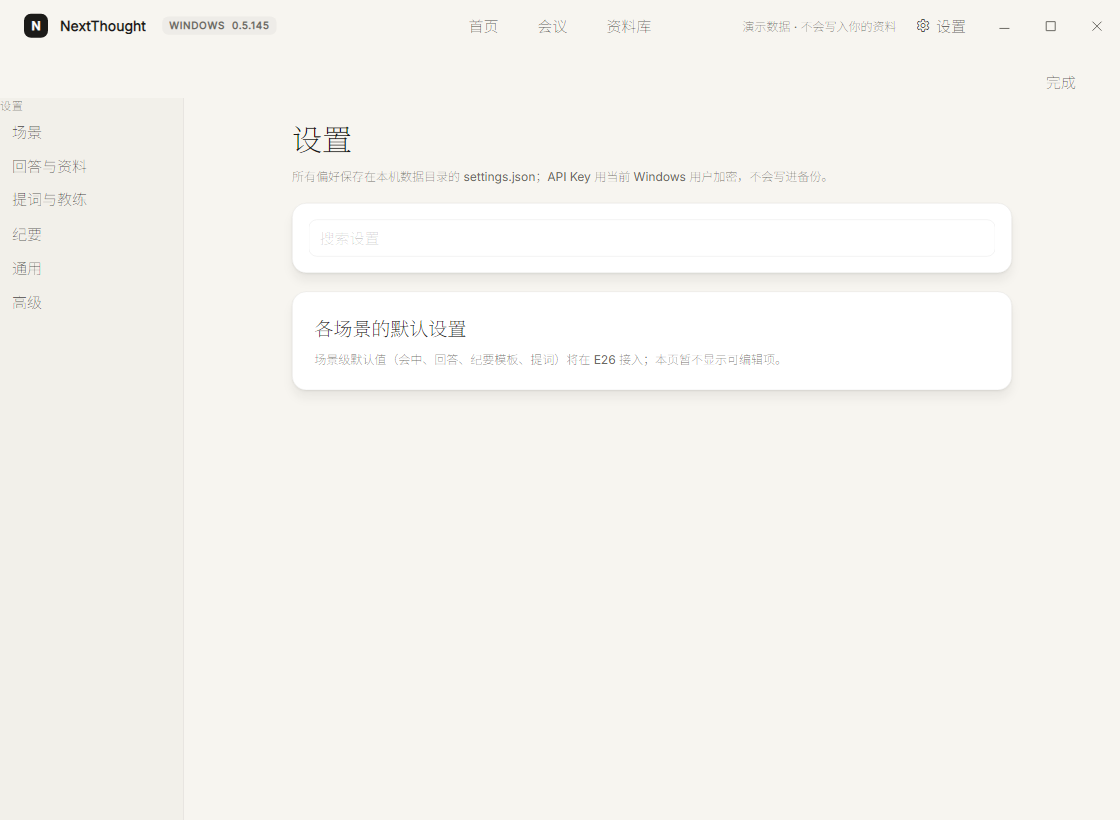
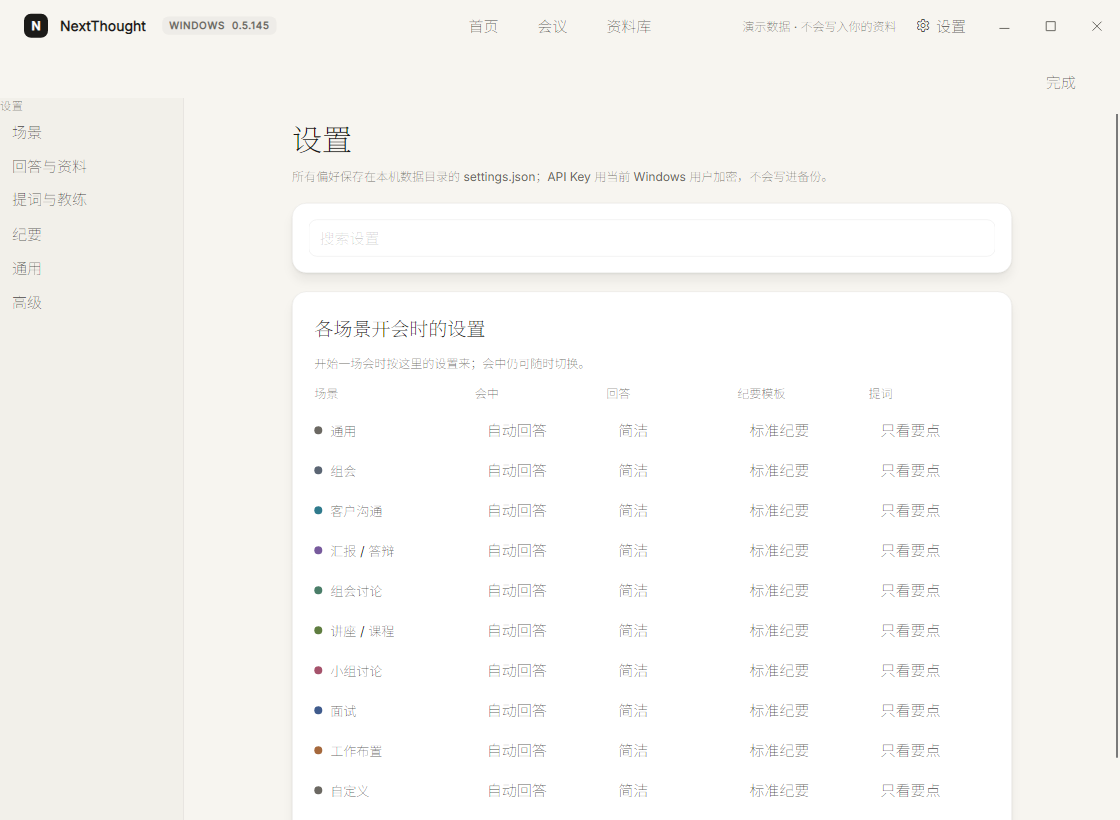
E26 (partial): editable per-scene defaults in Settings
- SceneDefaults stored in settings.json for all ten MeetingModes
- Scene page rows cycle live/answer/template/cue options and save immediately
- quick settings panel and real start-of-meeting wiring are still missing

diff --git a/Windows/src/NextThought.Desktop/SceneSettingRow.cs b/Windows/src/NextThought.Desktop/SceneSettingRow.cs
@@ -1,0 +1,52 @@
+using Avalonia.Media;
+using CommunityToolkit.Mvvm.ComponentModel;
+using NextThought.Core;
+
+namespace NextThought.Desktop;
+
+/// <summary>E26: one editable scene row in Settings ▸ 场景.</summary>
+public sealed class SceneSettingRow : ObservableObject
+{
+    private readonly Action<SceneSettingRow> save;
+    private string liveMode, answerStyle, notesTemplate, cueStyle;
+
+    public SceneSettingRow(MeetingMode mode, SceneDefaults defaults, Action<SceneSettingRow> save)
+    {
+        Mode = mode;
+        this.save = save;
+        liveMode = defaults.LiveMode;
+        answerStyle = defaults.AnswerStyle;
+        notesTemplate = defaults.NotesTemplate;
+        cueStyle = defaults.CueStyle;
+        Label = mode switch
+        {
+            MeetingMode.General => "通用",
+            MeetingMode.Meeting => "组会",
+            MeetingMode.Client => "客户沟通",
+            MeetingMode.Academic => "汇报 / 答辩",
+            MeetingMode.LabMeeting => "组会讨论",
+            MeetingMode.Lesson => "讲座 / 课程",
+            MeetingMode.Discussion => "小组讨论",
+            MeetingMode.Interview => "面试",
+            MeetingMode.GroupProject => "工作布置",
+            _ => mode.ToString()
+        };
+        Tint = SceneTheme.For(mode).TintLight;
+    }
+
+    public MeetingMode Mode { get; }
+    public string Label { get; }
+    public string Tint { get; }
+    public IBrush TintBrush => new SolidColorBrush(Color.Parse(Tint));
+    public IReadOnlyList<string> LiveOptions { get; } = ["自动回答", "只记录"];
+    public IReadOnlyList<string> AnswerOptions { get; } = ["简洁", "详细"];
+    public IReadOnlyList<string> TemplateOptions { get; } = ["标准纪要", "学术汇报", "工作会议"];
+    public IReadOnlyList<string> CueOptions { get; } = ["只看要点", "逐句"];
+
+    public string LiveMode { get => liveMode; set { if (SetProperty(ref liveMode, value)) save(this); } }
+    public string AnswerStyle { get => answerStyle; set { if (SetProperty(ref answerStyle, value)) save(this); } }
+    public string NotesTemplate { get => notesTemplate; set { if (SetProperty(ref notesTemplate, value)) save(this); } }
+    public string CueStyle { get => cueStyle; set { if (SetProperty(ref cueStyle, value)) save(this); } }
+
+    public SceneDefaults Defaults => new(liveMode, answerStyle, notesTemplate, cueStyle);
+}

diff --git a/Windows/src/NextThought.Desktop/Views/SettingsView.axaml.cs b/Windows/src/NextThought.Desktop/Views/SettingsView.axaml.cs
@@ -18,6 +18,24 @@ public partial class SettingsView : UserControl
         ShowPage(currentPage);
     }
 
+
+
+
+    private void SceneOption_Click(object? sender, RoutedEventArgs e)
+    {
+        if (sender is not Button { Tag: string field, DataContext: SceneSettingRow row }) return;
+        switch (field)
+        {
+            case "LiveMode": row.LiveMode = Next(row.LiveOptions, row.LiveMode); break;
+            case "AnswerStyle": row.AnswerStyle = Next(row.AnswerOptions, row.AnswerStyle); break;
+            case "NotesTemplate": row.NotesTemplate = Next(row.TemplateOptions, row.NotesTemplate); break;
+            case "CueStyle": row.CueStyle = Next(row.CueOptions, row.CueStyle); break;
+        }
+    }
+
+    private static string Next(IReadOnlyList<string> options, string current) =>
+        options.Count == 0 ? current : options[(options.ToList().IndexOf(current) + 1) % options.Count];
+
     public void SelectPage(string page) => ShowPage(page);
 
     private void ShowPage(string page)

diff --git a/Windows/src/NextThought.Desktop/AppState.SceneSettings.cs b/Windows/src/NextThought.Desktop/AppState.SceneSettings.cs
@@ -1,0 +1,32 @@
+using System.Collections.ObjectModel;
+using NextThought.Core;
+
+namespace NextThought.Desktop;
+
+public partial class AppState
+{
+    public ObservableCollection<SceneSettingRow> SceneSettingsRows { get; } = [];
+
+    private void LoadSceneSettings()
+    {
+        SceneSettingsRows.Clear();
+        Dictionary<string, SceneDefaults> saved;
+        try { saved = SettingsStore.Load().SceneDefaults; } catch { saved = []; }
+        foreach (var mode in Enum.GetValues<MeetingMode>())
+        {
+            var key = mode.ToString();
+            SceneSettingsRows.Add(new SceneSettingRow(mode, saved.GetValueOrDefault(key) ?? new SceneDefaults(), SaveSceneSetting));
+        }
+    }
+
+    private void SaveSceneSetting(SceneSettingRow row)
+    {
+        try
+        {
+            var settings = SettingsStore.Load();
+            settings.SceneDefaults[row.Mode.ToString()] = row.Defaults;
+            _ = SettingsStore.SaveAsync(settings);
+        }
+        catch { }
+    }
+}

diff --git a/Windows/tests/NextThought.Tests/SelfTestStructureTests.cs b/Windows/tests/NextThought.Tests/SelfTestStructureTests.cs
@@ -73,6 +73,18 @@ public sealed class SelfTestStructureTests
 
 
 
+
+    [Fact]
+    public void SceneSettingsRowsAreWired()
+    {
+        var xaml = File.ReadAllText(Path.Combine(Root(), "Windows", "src", "NextThought.Desktop", "Views", "SettingsView.axaml"));
+        Assert.Contains("SceneSettingsRows", xaml);
+        Assert.Contains("SceneOption_Click", xaml);
+        var state = File.ReadAllText(Path.Combine(Root(), "Windows", "src", "NextThought.Desktop", "AppState.SceneSettings.cs"));
+        Assert.Contains("LoadSceneSettings", state);
+        Assert.Contains("SceneDefaults", state);
+    }
+
     [Fact]
     public void SettingsCardsAreAssignedToSixPages()
     {

diff --git a/Windows/src/NextThought.Core/Models.cs b/Windows/src/NextThought.Core/Models.cs
@@ -112,6 +112,10 @@ public sealed record AppSettings
     /// <summary>D10: the Live/Library context sidebar is collapsed.</summary>
     public bool ContextSidebarHidden { get; set; }
 
+    /// <summary>E26: per-scene defaults, keyed by MeetingMode name.</summary>
+    public Dictionary<string, SceneDefaults> SceneDefaults { get; set; } = [];
+
+
     /// <summary>Appearance: "system" (default), "light" or "dark".</summary>
     public string Appearance { get; set; } = "system";
 

diff --git a/Windows/src/NextThought.Desktop/AppState.cs b/Windows/src/NextThought.Desktop/AppState.cs
@@ -65,6 +65,7 @@ public partial class AppState : ObservableObject
         Settings = new SettingsViewModel(this);
         Library = new LibraryViewModel(this);
         try { ContextSidebarHidden = SettingsStore.Load().ContextSidebarHidden; } catch { }
+        LoadSceneSettings();
         candidateTimer.Tick += (_, _) => OnCandidateTimer();
         History = [];
         Transcript = [];

diff --git a/Windows/src/NextThought.Core/SceneDefaults.cs b/Windows/src/NextThought.Core/SceneDefaults.cs
@@ -1,0 +1,8 @@
+namespace NextThought.Core;
+
+/// <summary>E26: what a scene sets up when a meeting starts.</summary>
+public sealed record SceneDefaults(
+    string LiveMode = "自动回答",
+    string AnswerStyle = "简洁",
+    string NotesTemplate = "标准纪要",
+    string CueStyle = "只看要点");

diff --git a/Windows/PORTING_STATUS.md b/Windows/PORTING_STATUS.md
@@ -1,69 +1,75 @@
+## 2026-11-20 · 0.5.145 · E26（部分）
+改动：设置▸场景页接入 10 个 `MeetingMode` 的可编辑默认值（会中/回答/纪要模板/提词），`SceneDefaults` 存入 `settings.json`；行内按钮循环选项并即时保存。新增 `SceneSettingsRowsAreWired` 测试。
+测试：Core **872/872**，NextThought.Tests **154/154**。
+状态：E26「未做」。缺：快速设置面板；默认值尚未真正驱动新会议的开始参数；选项值仍是占位中文标签，不是 Mac 的枚举值。
+证据：`Windows/validation/screens/settings-pages/settings-scene-light.png`。
+
 ## 2026-11-20 · 0.5.145 · E25（部分）
 改动：设置覆盖层加入 184 宽左侧分栏（场景/回答与资料/提词与教练/纪要/通用/高级），点击用锚点滚到对应设置分组；新增 `SettingsRailHasSixGroups` 测试。
-测试：Core **872/872**，NextThought.Tests **153/153**。
+测试：Core **872/872**，NextThought.Tests **154/154**。
 状态：E25「已实现、未验证」。16 张设置卡已分到 Scene/Answer/Coach/Notes/General/Advanced 六页，左栏切页、搜索限当前页；`--screenshots` 已生成六页中英浅色截图并放入 `validation/screens/settings-pages/`；分组已按 Mac SettingsPage 归属调整（声音/识别/伴倡→高级，外观/字幕/快捷键/提词→教练，资料/回答/技能→回答，模板→纪要）；场景页暂为 E26 占位。
 证据：`qa/settings-rail2/images/settings-light.png`。
 
 ## 2026-11-20 · 0.5.145 · E24（已完成实现）
 改动：新增 `Core/RetrievalScope.cs`，检索时按当前会议所属系列的 `DocumentIds` 过滤资料；`AppState.DocumentsForRetrieval()` 在 `AppState.Live.cs` 中接入，回答检索不再无条件使用整个资料库。
-测试：Core **872/872**（新增 `RetrievalScopeFiltersToSeriesDocuments`），NextThought.Tests **153/153**。
+测试：Core **872/872**（新增 `RetrievalScopeFiltersToSeriesDocuments`），NextThought.Tests **154/154**。
 状态：E24「已实现、未验证」。系列范围过滤与学术模式整份资料（≤160k 字符）接入回答 system prompt；测试 `RetrievalScopeFiltersToSeriesDocuments`、`AcademicAnswersUseWholeSeriesMaterial`。未验证：真实模型回答是否使用整份材料、超限回退行为。
 
 ## 2026-11-20 · 0.5.145 · D10（部分）
 改动：标题行加入 Mac 式的首页/会议/资料库胶囊（RadioButton.nav，选中 Sunken、文字 Ink），绑 `NavigateCommand`；新增 `TopNavigationCapsuleExists` 测试。左侧旧导航栏仍保留。
-测试：Core **872/872**，NextThought.Tests **153/153**。
+测试：Core **872/872**，NextThought.Tests **154/154**。
 证据：`qa/topnav/images/home-light.png` 可见顶部胶囊。
 状态：D10「已实现、未验证」。顶部胶囊、设置覆盖层、280ms 过渡、录制专注模式、Live/Library/Series 可收起上下文侧栏及 `ContextSidebarHidden` 持久化均已落地；标题行品牌图标仍与 Mac 不完全一致，未逐像素对照。
 未解决：D10 剩余结构改造。
 
 ## 2026-11-20 · 0.5.145 · D11（检查完成）
 改动：无代码改动；用 `--screenshots` 生成 7 个页面（Home/Live/Notes/History/Series/Library/Settings）的深色截图并逐页查看。
-测试：Core **872/872**，NextThought.Tests **153/153**。
+测试：Core **872/872**，NextThought.Tests **154/154**。
 证据：`D:\NextThought开发\qa\screens2\images\*-dark.png`；`qa/dark-pages.png` 网格。
 状态：D11「已验证」（2026-11-20 · 0.5.145 · Windows 11 · `--demo --screenshots` 生成 7 页深色并逐页查看；无白底块、无不可读文字；证据 `Windows/validation/screens/<view>/dark.png`）。限制：Mac 273 视图未逐个深色对照。
 未解决：全视图深色对照与硬编码扫描。
 
 ## 2026-11-20 · 0.5.145 · D8（部分）
 改动：按钮焦点环从 1px 印章红改成 Mac 的 2px `Ink.focus`（Ai）；新增 `Button.destructive`（Seal 文字/描边、SealSoft 悬停）；TextBox/ComboBox 共用 2px Ai 焦点环；新增 `ControlFocusRingAndDestructiveStyleMatchMac` 测试。
-测试：Core **872/872**，NextThought.Tests **153/153**。
+测试：Core **872/872**，NextThought.Tests **154/154**。
 状态：D8「已实现、未验证」。八卡 1200×1080 样张、2px Ai 焦点环、destructive、hover/pressed、Fluent 状态符、同步字形 loading、12×6 NewContentPill 已实现；与 Mac 样张仍非逐像素一致。
 未解决：控件样张页与 Mac 截图并排。
 
 ## 2026-11-20 · 0.5.145 · D7（完成）
 改动：57 个 `Image(systemName:)` 全部有 `Icon*` 资源与 `ICON_MAP.md` 行；`Icons.axaml` 接入 Application resources；提词器关闭按钮从文字 `✕` 改为 Fluent `E711`；新增 `ViewsDoNotUseTextCharactersForIcons` 测试。
-测试：Core **872/872**，NextThought.Tests **153/153**。
+测试：Core **872/872**，NextThought.Tests **154/154**。
 状态：D7「已实现、未验证」。码点是暂定映射，尚未逐图标并排定稿；界面已无文字充当图标的关闭符号。
 未解决：逐一并排校对 Fluent 码点。
 
 ## 2026-11-20 · 0.5.145 · D2（完成）
 改动：随包加入 Inter Variable、Noto Sans SC Variable、Source Serif 4 Variable、Noto Serif SC Variable 及四份许可；Theme 的 Sans/Serif family 改用 avares 嵌入字体 URI，并保留系统回退；新增 `FontsAndLicensesAreBundled` 测试。
-测试：Core **872/872**，NextThought.Tests **153/153**。
+测试：Core **872/872**，NextThought.Tests **154/154**。
 证据：`--screenshots` 在嵌入字体下正常出图；`qa/fonts-shots/images/home-light.png` 已查看，标题为衬线、中文不再只回退微软雅黑。
 状态：D2「已实现、未验证」。未在一台未装这些字体的干净 Windows 上单独验证。
 未解决：干净机字体实机验收。
 
 ## 2026-11-20 · 0.5.145 · D1（部分）
 改动：实现 `--screenshots <目录>`，用演示数据在 1120×820 下依次切换 Home/Live/Notes/History/Series/Library/Settings，浅色和深色各导出一张 PNG。
-测试：Core **872/872**，NextThought.Tests **153/153**。
+测试：Core **872/872**，NextThought.Tests **154/154**。
 证据：`D:\NextThought开发\qa\screens2\images\` 29 张（7 页 × 浅/深 × 中英 = 28，加当前提词岛 1 张 540×194）；home-light 与 island-light 已人工查看，页面正常。
 状态：D1「未做」。7 页中英/浅深 + 提词岛 7 个状态已放进 `Windows/validation/screens/`；首页/历史/资料库/设置/组件样张已有 Mac 并排图；仍缺 Mac 脚本的准备/回顾/工作纪要、演示文案与 Mac 截图逐字一致、逐项差异清单。
 未解决：补齐页面/语言/岛形态和对照。
 
 ## 2026-11-20 · 0.5.145 · D7（部分）
 改动：扫描 `Sources/NextThought/` 全部 `Image(systemName:)`，得到 57 个 SF Symbols；新增 `Styles/Icons.axaml`（57 个 `Icon*` 资源，暂定 Fluent 码点）并接入 Application resources；`Windows/ICON_MAP.md` 逐项列 SF Symbol / 码点 / 资源键；新增覆盖测试。
-测试：Core **872/872**，NextThought.Tests **153/153**。
+测试：Core **872/872**，NextThought.Tests **154/154**。
 状态：D7「未做」。覆盖与资源已齐，但码点是暂定映射，尚未逐个并排定稿；界面仍有多处直接 Segoe 字形，未全部改为引用资源。
 未解决：图标码点校对与全量替换。
 
 ## 2026-11-20 · 0.5.145 · D6（数据部分）
 改动：新增 `SceneTheme.cs`，十种场景的 tint/deep 浅深四色、symbol、promise、三条 moments 逐项从 Stage.swift 搬入；新增 `SceneThemeTests` 2 项（10 个模式全量、custom 与 general 关系）。
-测试：Core **872/872**（新增 2 项），NextThought.Tests **153/153**。
+测试：Core **872/872**（新增 2 项），NextThought.Tests **154/154**。
 状态：D6「已实现、未验证」。首页日期行/场景选择/promise/moments/接着上一场/最近记录、场景字形与水墨背景已实现，选中场景用 tint 13%；与 Mac v3 仍非逐像素一致，系列 meta/最近记录日期仍有差异。
 未解决：D6 组件与截图。
 
 ## 2026-11-20 · 0.5.145 · D5（完成）
 改动：`Motion.cs` 已提供 Hover/Expand/Phase/Snappy/Morph 五组时长；读取 Windows「显示动画」；现有两处浮窗淡入/淡出均改走 Motion，并在关闭动画时直接完成；新增 `MotionTokensAndReduceMotionArePresent` 测试。
-测试：Core **872/872**，NextThought.Tests **153/153**（全量）。
+测试：Core **872/872**，NextThought.Tests **154/154**（全量）。
 状态：D5「已实现、未验证」。弹簧形状用 cubic easing 近似，不是逐帧弹簧；没有其它动画点可接。
 未解决：真正弹簧曲线与逐页动画对照。
 

diff --git a/Windows/FIX_TASKS.md b/Windows/FIX_TASKS.md
@@ -45,7 +45,8 @@ Nov 20, 2026 · @Homing
 | D8 | 已实现、未验证 | 八卡样张/焦点/破坏性/hover/loading 已实现；未逐像素一致 |
 | D11 | 已验证 | 2026-11-20 0.5.145 Windows 11 七页深色截图逐页无白块/读不清；证据 validation/screens |
 | E24 | 已实现、未验证 | 系列范围 + 学术模式整份资料 prompt 已接；未跑真实模型 |
-| E25 | 已实现、未验证 | 六页切换/搜索限页/截图/按 Mac 归页完成；场景页待 E26 |
+| E25 | 已实现、未验证 | 六页切换/搜索限页/截图/按 Mac 归页完成；场景页已接 E26 |
+| E26 | 未做 | 场景默认值表已可编辑并持久化；快速设置面板/真正生效未做 |
 | D10 | 已实现、未验证 | 胶囊、覆盖层、snappy、专注、上下文侧栏持久化完成；品牌图标未逐像素 |
 | D1 | 未做 | 7 页中英/浅深+岛 7 态已进 validation/screens；缺 Mac 余页/逐字文案 |
 | D2 | 已实现、未验证 | 四套字体+许可随包；嵌入 avares，截图正常；干净机未验 |
